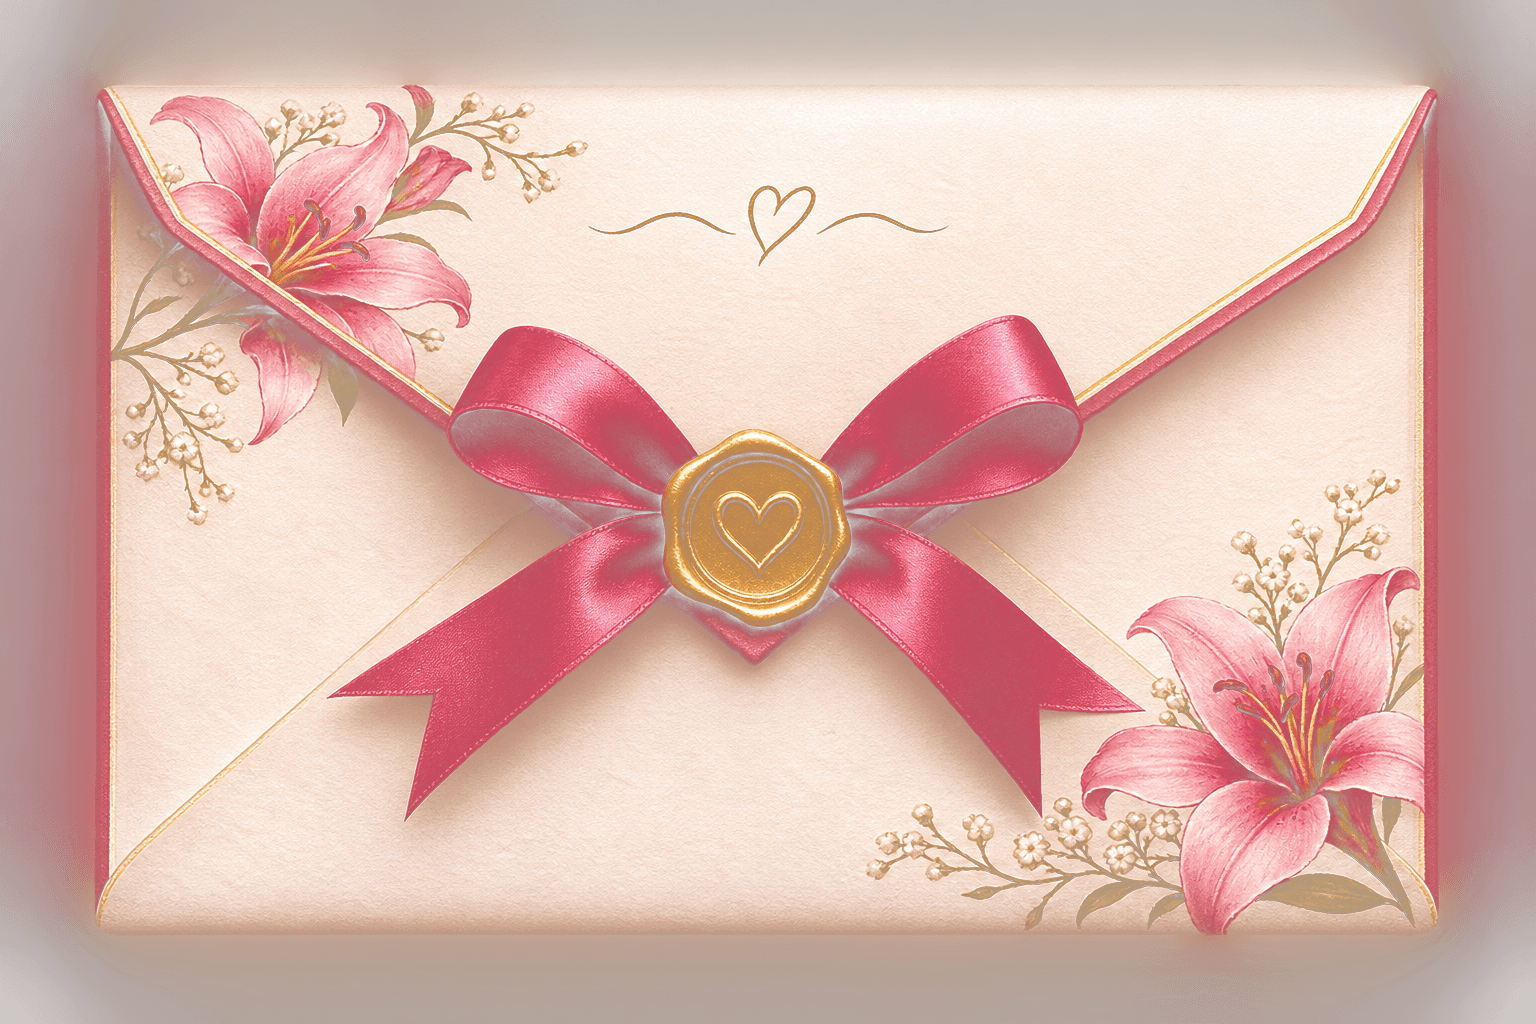
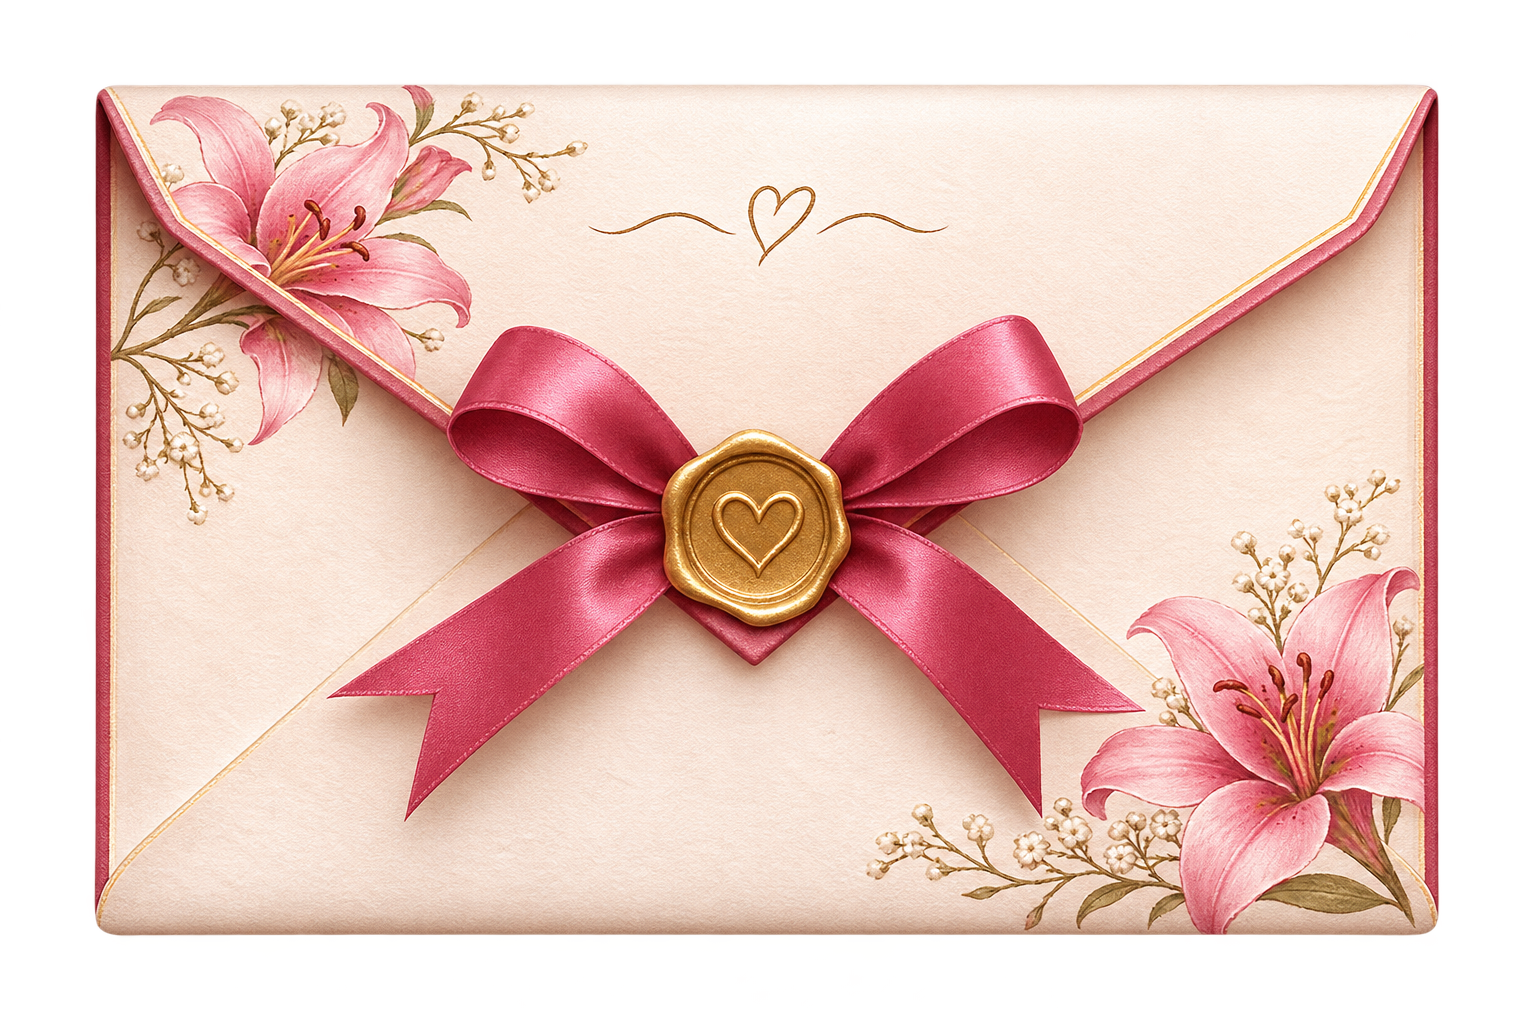
Fix desktop background to fill viewport edge-to-edge; use clean original envelope image

diff --git a/src/index.css b/src/index.css
@@ -122,16 +122,17 @@ body {
   text-shadow: 0 1px 8px rgba(255, 255, 255, 0.85);
 }
 
-/* Full-bleed background photo. The source art is a wide landscape "frame"
-   (decorations on the edges, blank centre) — on desktop/tablet that fits
-   nicely with `contain`. On narrow portrait phones `contain` leaves big
-   blank bars above/below, so below 640px we swap to a dedicated portrait
-   crop (full height, no letterboxing, no stretching) and use `cover`. */
+/* Full-bleed background photo. The source art's aspect (~1.78) closely
+   matches a typical desktop/laptop viewport, so `cover` fills edge-to-edge
+   with no side gaps while still showing virtually the whole frame (only
+   trims a sliver on very wide/narrow windows, never stretches). On narrow
+   portrait phones below 640px we swap to a dedicated portrait crop (full
+   height, no letterboxing, no stretching) and use `cover` there too. */
 .app-bg {
   background-image:
     url("/images/birthday-background.png"),
     linear-gradient(180deg, var(--color-blush-50), var(--color-cream-50));
-  background-size: contain;
+  background-size: cover;
 }
 @media (max-width: 640px) {
   .app-bg {
